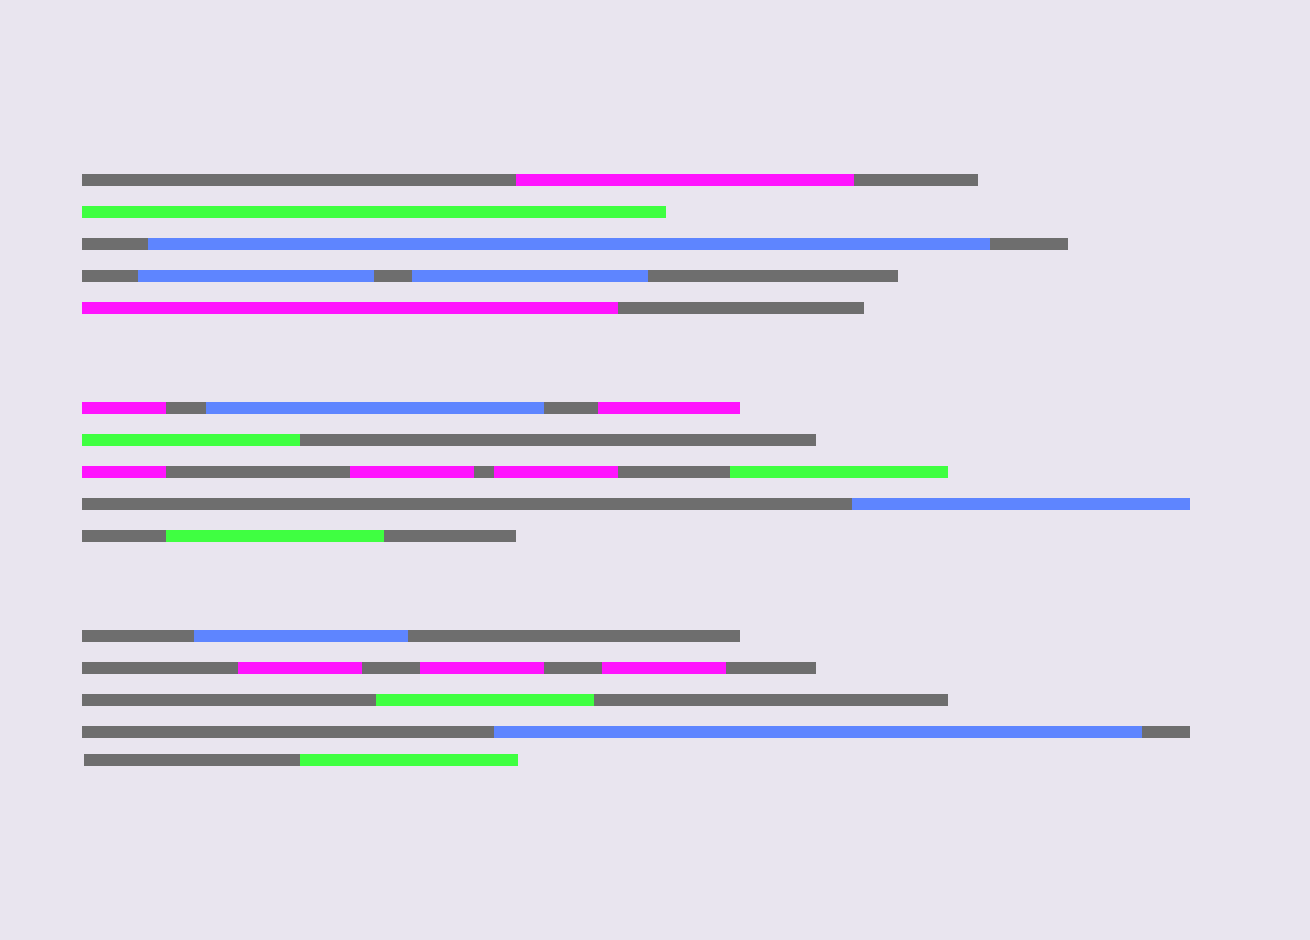
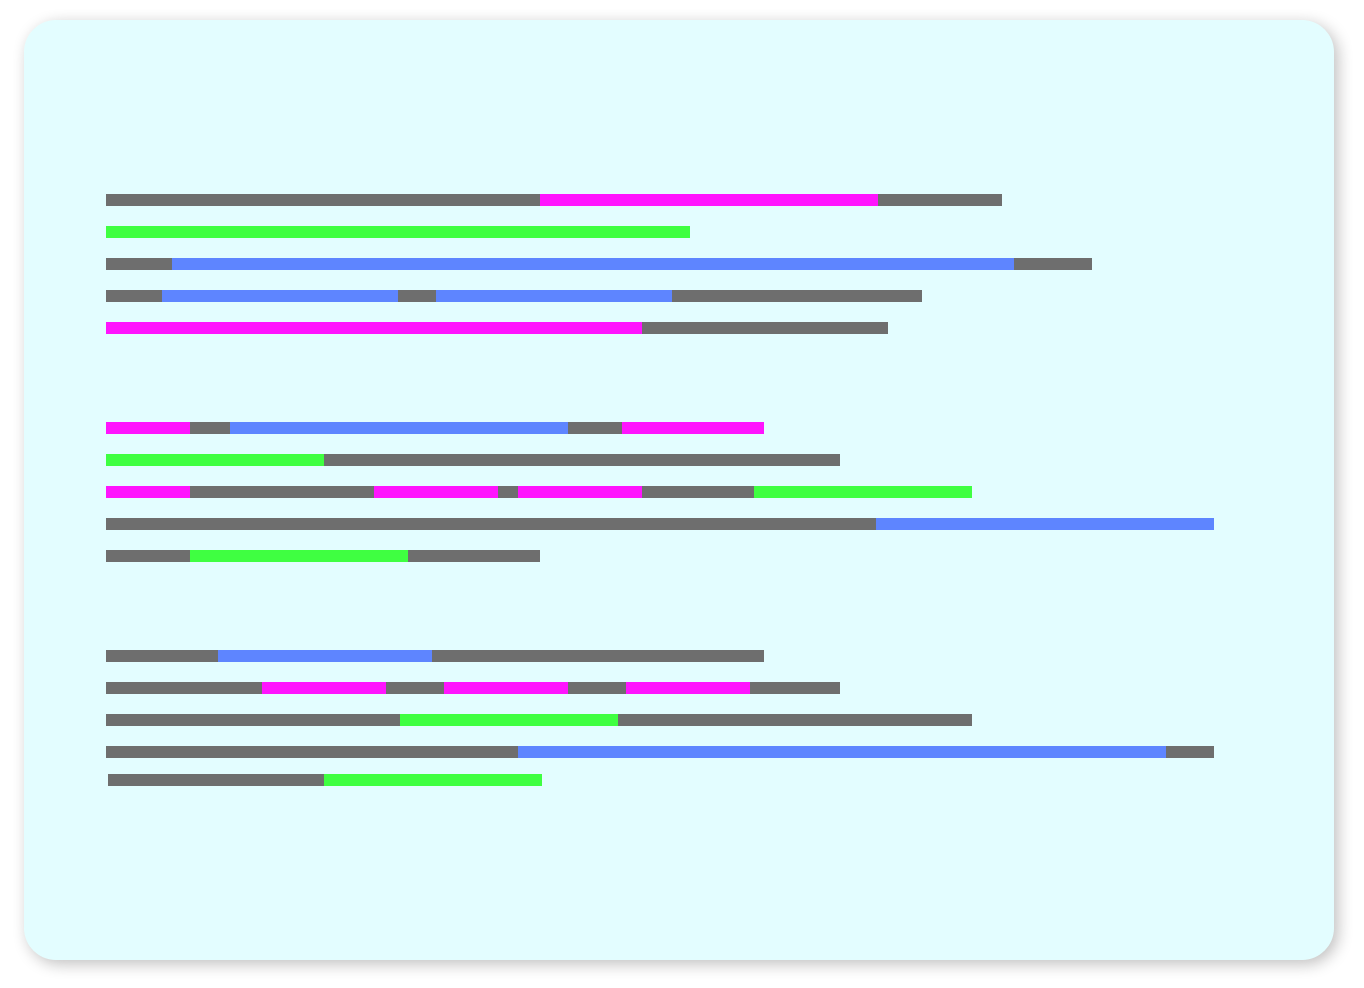
save

diff --git a/Projects/transit.html b/Projects/transit.html
@@ -45,7 +45,7 @@
   <div class="casestudy-content">
     <div id = "row-header" class="row">
       <h1>NJ Transit Redesign</h1>
-      <p id = "subheader">A redesign of NJ Transit's mobile app - Trip Planning</p>
+      <p id = "subheader">A redesign of NJ Transit's mobile app - Trip Planning<br><br><span class = "bold">2nd Iteration</span></p>
       <!-- <img id = "header-image" src="../assets/images/transit-displays/header-image.png" alt="header-image"> -->
     </div>
     <div id = "row-overview" class="row">
@@ -90,6 +90,7 @@
         <br>
         I figured using the NJ Transit App would be a good place to start. Granted, I had used the NJ Transit app before but I had only used it to purchase tickets. The app has a "Plan Trip" button, but what I ended up doing was using NJ Transit's mobile app to review the schedule and purchase tickets. I had to use Google Maps to help me with the majority of my trip, which worked out fine, but from a user experience perspective I was not impressed. Using two apps to help a person get from point A to point B is counter intuitive and creates more work for the user. The only real use, I see NJ Transit's mobile app to be helpful for, is for purchasing tickets.
         </p>
+        <h3 style = "text-align:center;">What I hope to discover</h3>
         <ul class = "unordered-list" id = "introduction-content-ul">
           <li>Who finds NJ Transit's app the most helpful?</li>
           <li>What other apps are popular for commuter purposes?</li>
@@ -116,23 +117,47 @@
             <li>Millennials</li>
           </ul>
         </div>
-        <img src="../assets/images/transit-displays/research-graph.png" alt="research-image">
+        <figure class="">
+          <img src="../assets/images/transit-displays/research-graph.png" alt="research-image">
+          <figcaption>graphic representation of interviewee responses and color-highlighted areas to showcase motivations, behaviors and pain points</figcaption>
+        </figure>
       </div>
       <div id="research-content-2">
-        <img src="../assets/images/transit-displays/persona-1.png" alt="">
-        <img src="../assets/images/transit-displays/persona-2.png" alt="">
+        <div class="">
+          <img src="../assets/images/transit-displays/persona-1.png" alt="millennial persona">
+          <figcaption>Millennial Persona</figcaption>
+        </div>
+        <div class="">
+          <img src="../assets/images/transit-displays/persona-2.png" alt="baby boomer persona">
+          <figcaption>Baby Boomer Persona</figcaption>
+        </div>
       </div>
     </div>
     <div id = "row-research-recap" class="row">
         <h2>Research Recap</h2>
         <div id = "research-recap-content">
+          <h3 style = "text-align:center;">Discovery</h3>
           <ul class = "unordered-list">
-            <li>Who finds NJ Transit's app the most helpful? <br><br><span class = "bold">Baby Boomers and Millennials</span></li><Br>
-            <li>What other apps are popular for commuter purposes? <br><br><span class = "bold">Google Maps and Waze</span></li><Br>
-            <li>Where in the process of traveling via public transit do people experience the most stress? <br><br><span class = "bold">After arriving at their NJ Transit Destination (at arrival)</span></li><br>
-            <li>When do people decide to use another mobile app, besides NJ Transit, to help them get to where they're going? <Br><br><span class = "bold">once they arrive and leave the scope of NJ Transit</span></li><br>
-            <li>Why do people prefer public transportation over driving their personal vehicels? <br><br><span class = "bold">Because personal vehicles aren't an option once you get to your arrival destination. Uber or ride-sharing apps are a popular alternative</span></li><br>
-            <li>How often do people need to use a GPS-based navigation app after they have gotten to their NJ Transit destination? <br><br><span class = "bold">Unless the individual is familiar with their destination area, he or she will more likely than not use a GPS or navigational application</span></li>
+            <li>Who finds NJ Transit's app the most helpful? <br><br><span class = "bold">- Baby Boomers and Millennials</span></li><Br>
+            <li>What other apps are popular for commuter purposes? <br><br><span class = "bold">- Google Maps and Waze</span></li><Br>
+            <li>Where in the process of traveling via public transit do people experience the most stress? <br><br><span class = "bold">- After arriving at their NJ Transit Destination (at arrival)</span></li><br>
+            <li>When do people decide to use another mobile app, besides NJ Transit, to help them get to where they're going? <Br><br><span class = "bold">- once they arrive and leave the scope of NJ Transit</span></li><br>
+            <li>Why do people prefer public transportation over driving their personal vehicels? <br><br><span class = "bold">- Because personal vehicles aren't an option once you get to your arrival destination. Uber or ride-sharing apps are a popular alternative</span></li><br>
+            <li>How often do people need to use a GPS-based navigation app after they have gotten to their NJ Transit destination? <br><br><span class = "bold">- Unless the individual is familiar with their destination area, he or she will more likely than not use a GPS or navigational application</span></li>
+          </ul>
+          <h3>Millennials:</h3>
+          <ul class = "unordered-list">
+            <li>use Google Maps for foot/walking directions</li>
+            <li>prefer Waze over Google Maps for driving directions and real-time traffic patterns</li>
+            <li>use NJ Transit's app for checking schedules and buying tickets</li>
+            <li>would prefer not to use Uber or Uber competitor app due to the financial cost and excessibility of the NYC Metro</li>
+          </ul>
+          <h3>Baby Boomers:</h3>
+          <ul class = "unordered-list">
+            <li>use Google Maps for foot/walking & driving direction</li>
+            <li>prefer Google Maps over Waze for it's reliability and the fact that Waze is owned by Google</li>
+            <li>use NJ Transit's app for checking schedules and buying tickets</li>
+            <li>would prefer to use Uber for convenience</li>
           </ul>
         </div>
     </div>

diff --git a/assets/css/Transit-CSS-Mast/test.css b/assets/css/Transit-CSS-Mast/test.css
@@ -12,12 +12,16 @@ h1{
   font-family: 'Montserrat', sans-serif;
   font-size:32pt;
   margin-top:25vh;
-  margin-top:8em;
+  margin-top:6em;
 }
 h2{
   font-family: 'Montserrat', sans-serif;
   font-size:32pt;
   text-align: center;
+}
+h3{
+  font-family: 'Montserrat', sans-serif;
+  font-size:16pt;
 }
 p{
   font-family: 'Source Sans Pro', sans-serif;
@@ -29,6 +33,13 @@ span{
   font-family: 'Source Sans Pro', sans-serif;
   font-size:14pt;
   color:#000;
+}
+figcaption{
+  font-family: 'Source Sans Pro', sans-serif;
+  font-size:10pt;
+  color:#000;
+  width:90%;
+  padding-left:10px;
 }
 .bold{
   font-weight:bold;
@@ -45,6 +56,7 @@ span{
   font-family: 'Source Sans Pro', sans-serif;
   font-size:14pt;
   list-style-type:circle;
+  color:#000;
 }
 .unordered-list > li{
   padding-bottom:8px;
@@ -54,7 +66,7 @@ span{
 
 /* ~~~~~~~~~~~~~~~~~~~~~ Row-Header ~~~~~~~~~~~~~~~~~~~~~ */
 #row-header{
-  background-color: #E9E5EF;
+  background-color: #E3FDFF;
 }
 #header-image{
   width:100vw;
@@ -80,7 +92,7 @@ span{
   flex-direction: column;
   text-align: center;
   font-family: 'Source Sans Pro', sans-serif;
-  font-size:16pt;
+  font-size:14pt;
 }
 .overview_container-third-content > ul{
   padding:0;
@@ -90,7 +102,7 @@ span{
   padding-bottom:7.5px;
 }
 .overview_container-third-content > h3{
-  font-weight:bolder;
+
 }
 .overview_container-third:nth-child(1) > .overview_container-third-content{
   float:left;
@@ -102,14 +114,13 @@ span{
 
 /* ~~~~~~~~~~~~~~~~~~~~~ Row-Introduction ~~~~~~~~~~~~~~~~~~~~~ */
 #row-introduction{
-  background-color:#E9E5EF;
+  background-color:#E3FDFF;
 }
 #introduction-content{
   width:50%;
   margin:auto;
 }
 #introduction-content > p{
-  border-bottom:1px solid #2E2E2E;
   padding-bottom:2em;
 }
 #introduction-content > ul{
@@ -127,7 +138,7 @@ span{
   grid-template-columns:1fr 1fr;
   grid-gap:1em;
 }
-#research-content-1 > img{
+#research-content-1 > figure > img{
   width:100%;
   height:60vh;
 }
@@ -139,7 +150,7 @@ span{
   grid-gap:1em;
   margin-top:5em;
 }
-#research-content-2 > img{
+#research-content-2 > div > img{
   width:100%;
   height:80vh;
 }
@@ -147,9 +158,13 @@ span{
 
 /* ~~~~~~~~~~~~~~~~~~~~~ Row-Research-Recap ~~~~~~~~~~~~~~~~~~~~~ */
 #row-research-recap{
-    background-color:#E9E5EF;
+    background-color:#E3FDFF;
 }
 #research-recap-content{
   width:50%;
+  margin:auto;
+  margin-top:5em;
+}
+#research-recap-content > .unordered-list{
   margin:auto;
 }

diff --git a/assets/css/Transit-CSS-Mast/test-media.css b/assets/css/Transit-CSS-Mast/test-media.css
@@ -54,50 +54,27 @@
     margin:auto;
   }
   /* ~~~~~~~~~~~~~~~~~~~~~ Row-Research ~~~~~~~~~~~~~~~~~~~~~ */
-  #research-content{
+  #research-content-1{
+    width:90%;
+    margin:auto;
     display: grid;
     grid-template-columns:1fr;
-    grid-gap:2em;
+    /* display: flex;
+    flex-direction: column-reverse; */
+    grid-gap:1em;
+  }
+  #research-content-1 > figure > img{
+    width:100%;
+    height:60vh;
+
+  }
+  #research-content-2{
     width:90%;
-    margin:Auto;
+    grid-template-columns:1fr;
   }
-  .research-sub-row{
-    display: flex;
-    flex-direction: column-reverse;
-    margin:auto;
+  #research-content-2 > figure > img{
     width:100%;
-  }
-  #research-sub-row-2{
-    flex-direction: column;
-  }
-  .research-sub-row > div{
-    width:100%;
-  }
-  #research-sub-row-p-1{
-    width:100%;
-  }
-  #research-sub-row-p-2{
-    width:100%;
-  }
-  #research-img-1{
-    width:100%;
-  }
-  #research-img-2{
-    width:100%;
-  }
-  .research-img{
-    width:100%;
-    height:50vh;
-  }
-  #research-sub-row-persona{
-    display: grid;
-    grid-template-columns: 1fr;
-    grid-gap:3em;
-    margin-top:-2.5em;
-  }
-  #research-sub-row-persona > img{
-    width:100%;
-    height:75vh;
+    height:80vh;
   }
   /* ~~~~~~~~~~~~~~~~~~~~~ Row-Research-Recap ~~~~~~~~~~~~~~~~~~~~~ */
   #research-recap-content{

diff --git a/assets/css/Nav-CSS-Mast/navbar-media.css b/assets/css/Nav-CSS-Mast/navbar-media.css
@@ -13,20 +13,21 @@
     display: none;
   }
   .menu > a{
-    border-bottom:1px solid black;
+    border-bottom:1px solid #000;
     margin:0;
     height:15vh;
     display:block;
   }
   .menu > a{
-    border-bottom:1px solid black;
+    border-bottom:1px solid #000;
     margin:0;
     height:15vh;
     display:block;
     color:#000;
   }
   .menu > a:hover{
-    color:#008081
+    color:#008081;
+    border-bottom:2px solid #008081;
   }
   #toggle:checked + .menu{
     display: block;
